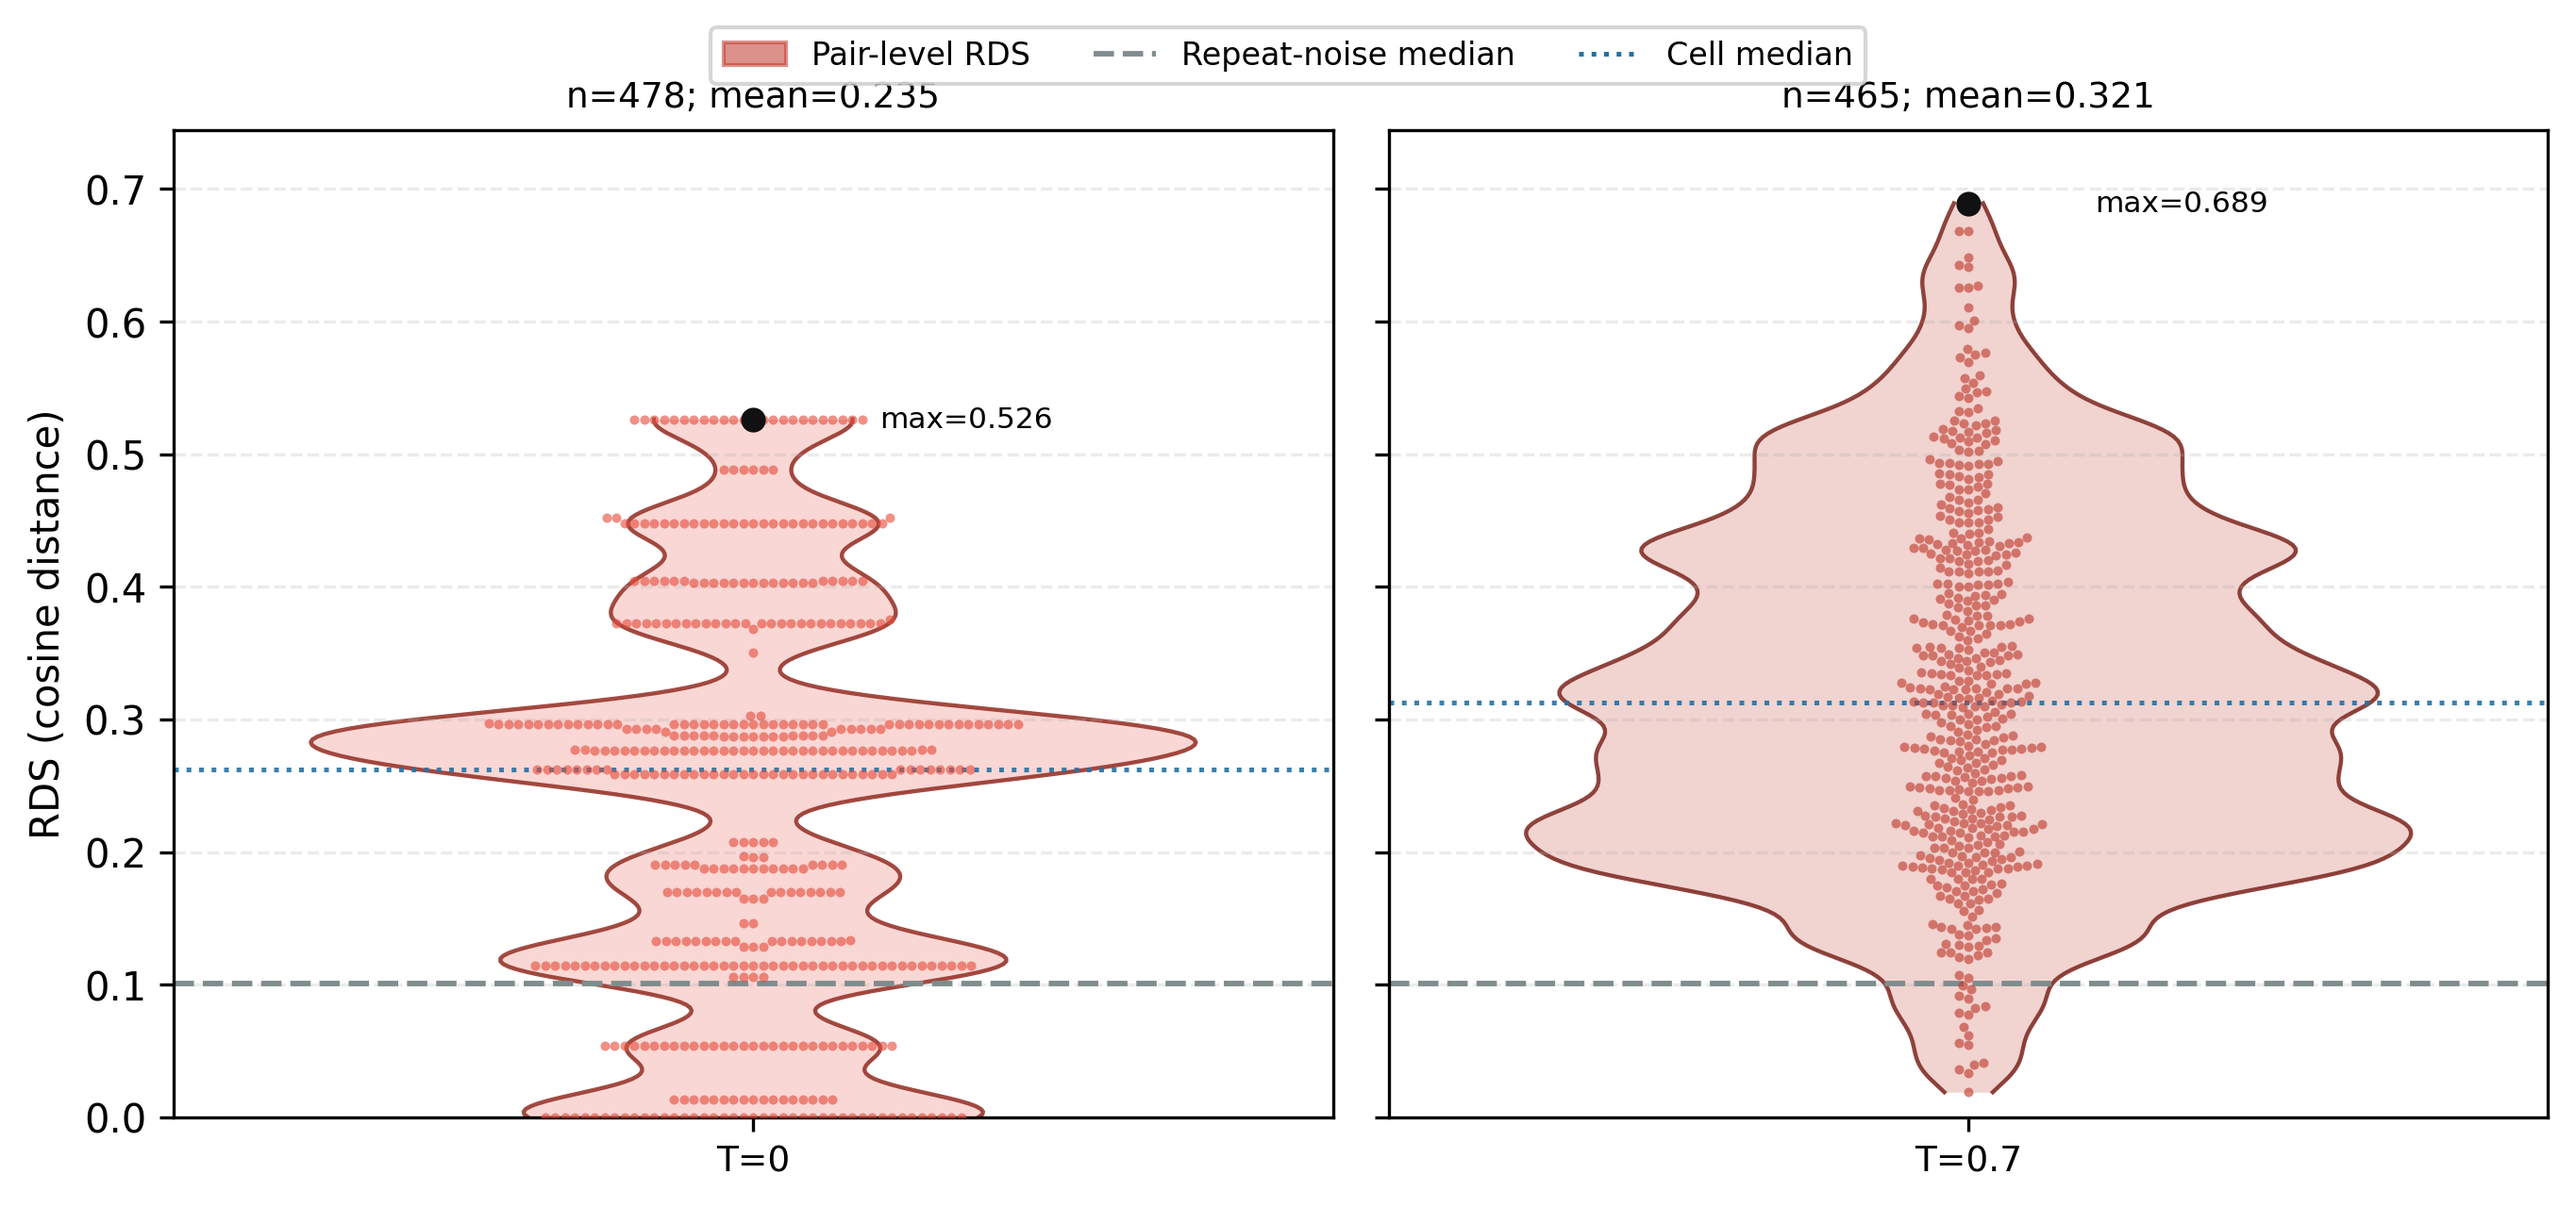
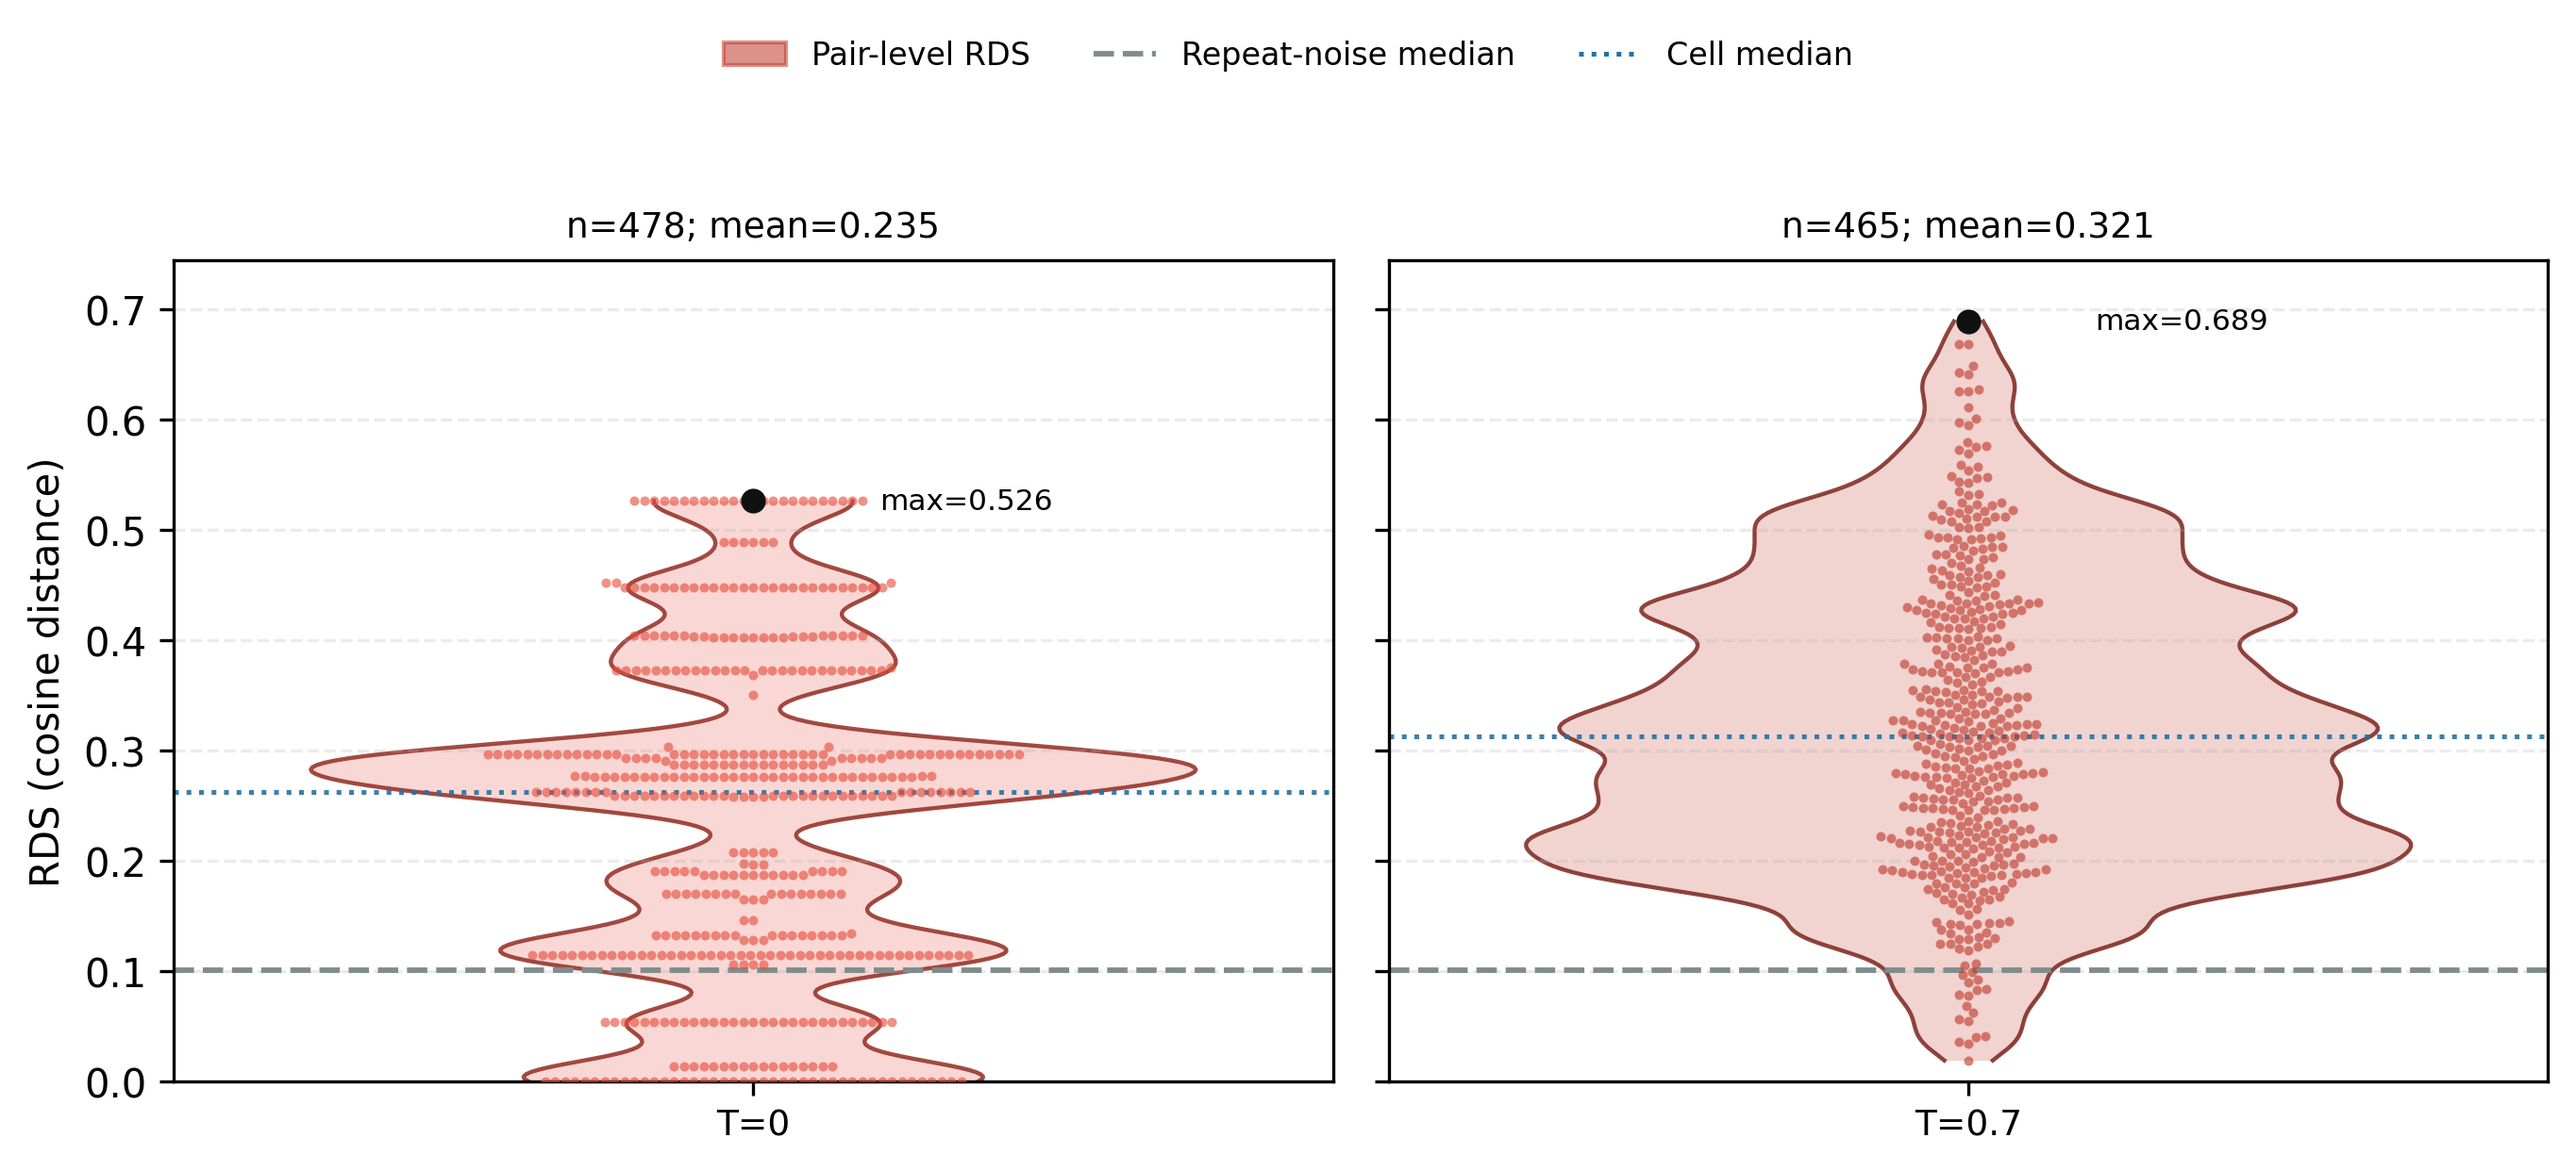
Fix Fig. 12 legend overlap and rephrase repeated intro sentence
- Reserve top margin before drawing the swarm-envelope legend so it no
  longer overlaps the panel titles/plot area; regenerate Fig. 12.
- Reword the intro sentence following the strategic-decision-making
  citation to avoid repeating the same phrase back to back.

diff --git a/result_analysis/rationale_rds_analysis.py b/result_analysis/rationale_rds_analysis.py
@@ -923,8 +923,10 @@ def plot_rds_matched_choice_case_cell_swarm_envelope(
         plt.Line2D([0], [0], color="#7f8c8d", linestyle="--", linewidth=1.4, label="Repeat-noise median"),
         plt.Line2D([0], [0], color="#2471a3", linestyle=":", linewidth=1.2, label="Cell median"),
     ]
-    fig.legend(handles=handles, loc="upper center", bbox_to_anchor=(0.5, 1.02), ncol=3, fontsize=8)
-    plt.tight_layout()
+    # Reserve a dedicated top margin for the figure-level legend so it never
+    # overlaps the per-panel titles or the swarm/envelope plot area below it.
+    plt.tight_layout(rect=[0, 0, 1, 0.86])
+    fig.legend(handles=handles, loc="upper center", bbox_to_anchor=(0.5, 0.99), ncol=3, fontsize=8, frameon=False)
     for ax in axes:
         ax.set_xlabel("")
         ax.xaxis.label.set_visible(False)

diff --git a/ESWA_paper_harvard_0719.md b/ESWA_paper_harvard_0719.md
@@ -7,7 +7,7 @@ We therefore reframe the evaluation problem from correctness to decision sensiti
 
 
 **1\. Introduction**  
-Large Language Models (LLMs) are increasingly used as algorithmic agents in R&D and innovation management—supporting technology opportunity discovery (Yoo et al., 2026) and strategic decision-making under uncertainty (Allen and McDonald, 2026). Organizations now consult LLMs not merely as information retrievers but as active contributors to strategic decision-making. Yet, despite this rapid adoption, empirical understanding of how these models behave as strategic agents remains critically limited.
+Large Language Models (LLMs) are increasingly used as algorithmic agents in R&D and innovation management—supporting technology opportunity discovery (Yoo et al., 2026) and strategic decision-making under uncertainty (Allen and McDonald, 2026). Organizations now consult LLMs not merely as information retrievers but as active participants in shaping strategic choices. Yet, despite this rapid adoption, empirical understanding of how these models behave as strategic agents remains critically limited.
 
 When an LLM produces a strategic recommendation, it does not simply retrieve facts. It actively interprets the problem, weighs competing considerations, and generates a course of action. Unlike human agents whose reasoning can be probed and audited, however, LLMs offer no built-in transparency about what drives their judgments. Do they rely on stable strategic logic, or are their recommendations systematically shaped by how the problem is framed, which brand name appears in the prompt, or even the randomness setting of the decoder?
 
